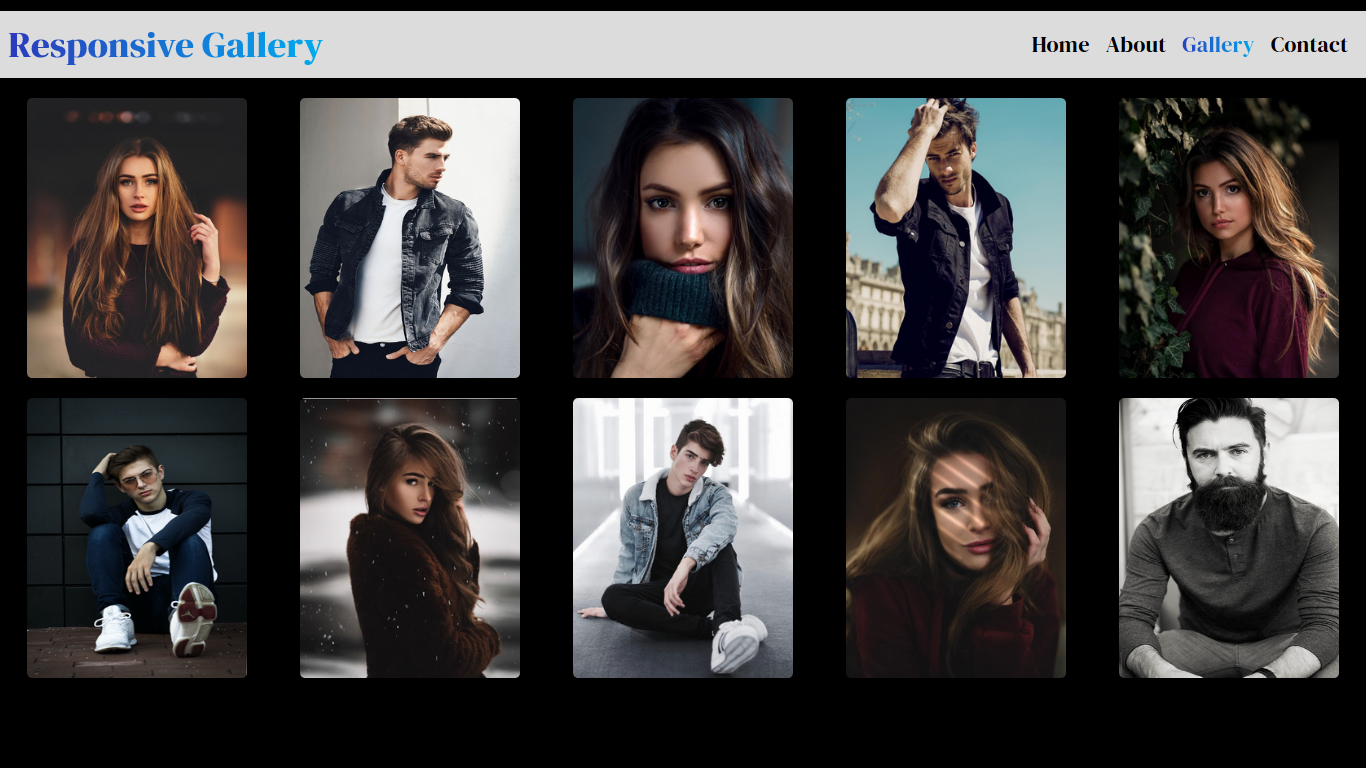
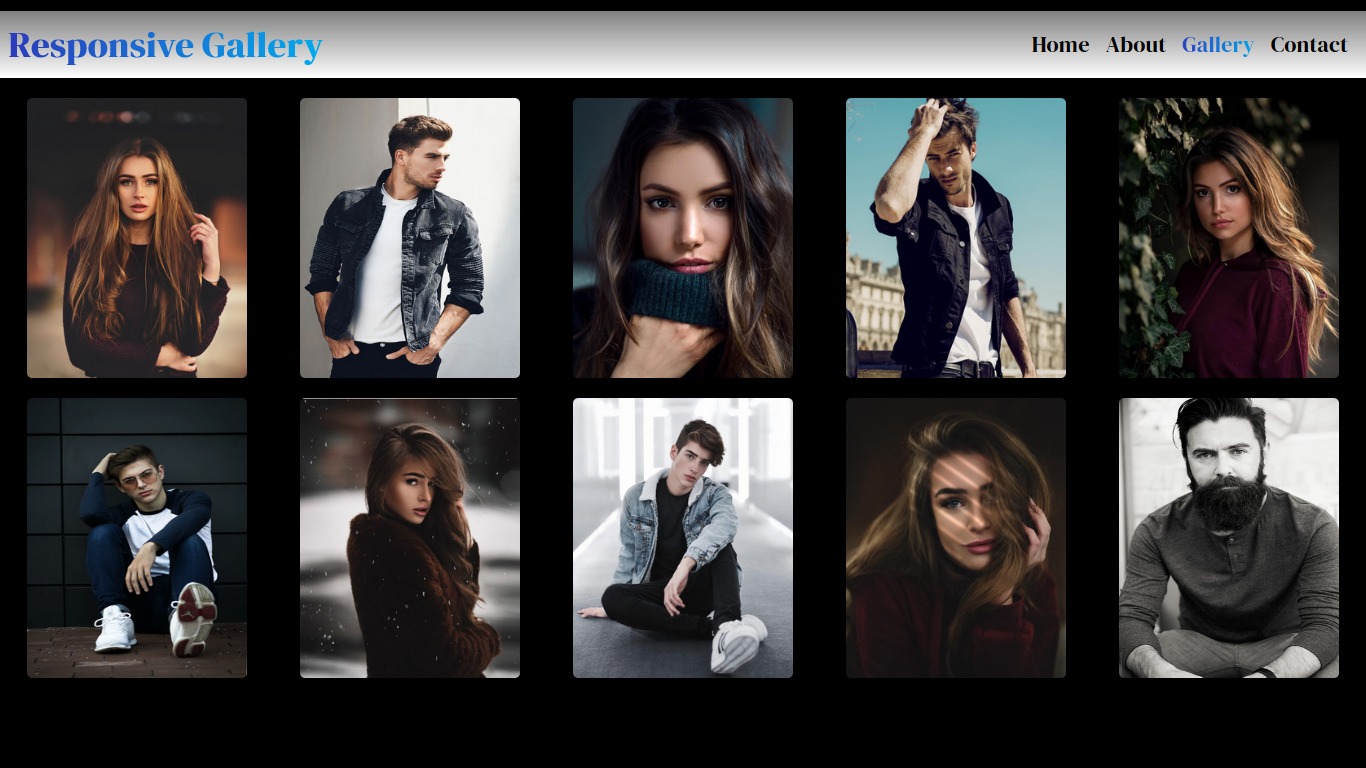
Gradient and Sc Updated

Changed region(s): [[0.0, 0.0, 1.0, 0.0625], [0.0, 0.0938, 1.0, 0.125]]

diff --git a/style.css b/style.css
@@ -62,7 +62,7 @@ header{
 	margin-top: 10px; 
 	width: 100%;
 	height: auto;
-	background-color: #DCDCDC;
+	background: linear-gradient(to bottom, grey, white);
 	display: flex;
 	justify-content: space-between;
 	flex-wrap: wrap;
